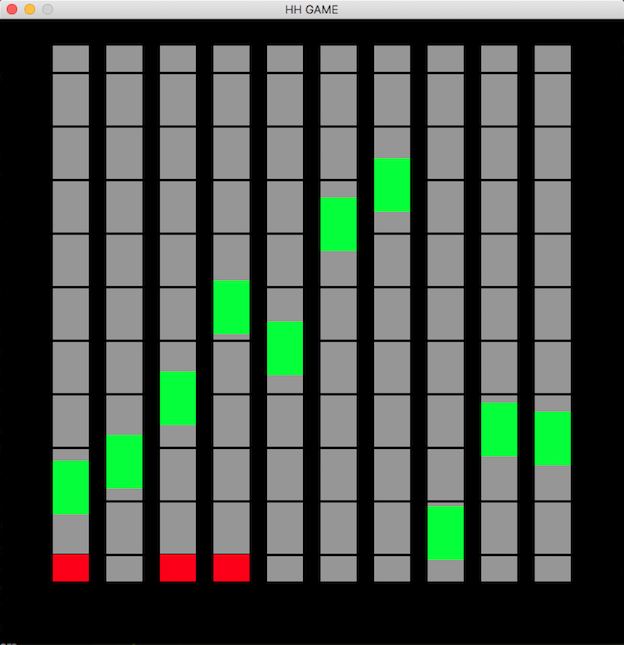
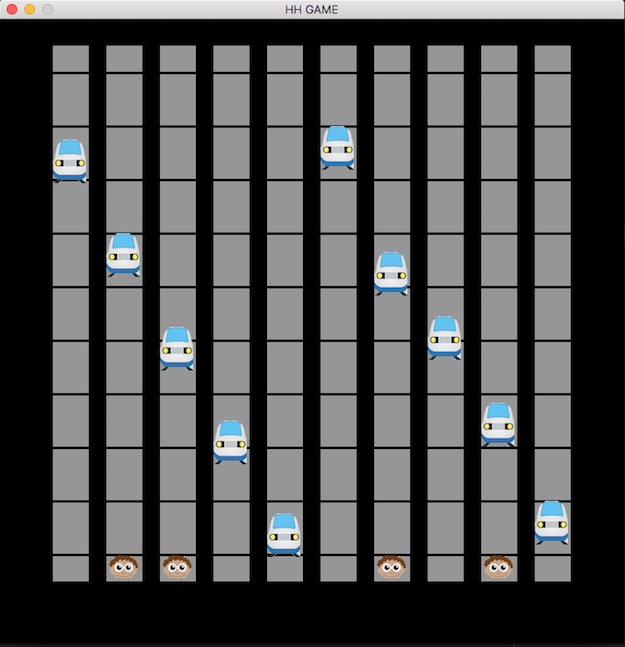
Add images to trains and hobos

diff --git a/Game.py b/Game.py
@@ -2,6 +2,7 @@ import pygame
 import Tracks
 import Train
 import Hobo
+import Player
 from Coord import *
 import random
 
@@ -15,8 +16,11 @@ class HH_Game():
         self.screen = pygame.display.set_mode(
             (self.screenWidth, self.screenHeight))
         self.tracks = Tracks.Tracks(60, 30, 40, 600, 10, self.screen)
+        # self.player = Player.Player(
+        #    300, self.tracks, 3, 240, 600, 40, 30, self.screen)
         self.tracks.setBusy(0)
         self.tracks.setBusy(1)
+        # self.tracks.setBusy(3)
         self.tracks.setBusy(4)
         self.tracks.setBusy(6)
         self.fps = 30
@@ -32,13 +36,13 @@ class HH_Game():
     def addTrains(self):
         for track in range(1, self.tracks.numberOfTracks+1):
             self.trains.append(Train.Train(
-                track-1, track*self.tracks.x, self.tracks.y, 40, 60, self.speed*track/3, self.screen, self.fps))
+                track-1, track*self.tracks.x, self.tracks.y, self.speed*track/3, self.screen, self.fps))
 
     def addHobos(self):
         for track in range(1, self.tracks.numberOfTracks+1):
             if not (self.tracks.isEmpty(track-1)):
                 self.hobos.append(Hobo.Hobo(
-                    self.tracks, track-1, track*self.tracks.x, self.tracks.height, self.tracks.width, self.tracks.y, self.screen))
+                    self.tracks, track-1, track*self.tracks.x, self.tracks.height, self.screen))
 
     def removeHobos(self):
         for hobo in self.hobos:
@@ -49,11 +53,15 @@ class HH_Game():
         for hobo in self.hobos:
             if hobo.currentTrack == track:
                 return hobo
+            # elif self.player.currentTrack == track:
+            #    return self.player
 
     def getCurrentTracks(self):
         currentTracks = []
         for hobo in self.hobos:
             currentTracks.append(hobo.currentTrack)
+        # if (self.player != None):
+        #    currentTracks.append(self.player.currentTrack)
         return currentTracks
 
     def handleCollision(self):
@@ -68,6 +76,7 @@ class HH_Game():
             train.update()
         for hobo in self.hobos:
             hobo.update()
+        # self.player.update()
 
     # Draw the scene for the game
 
@@ -77,8 +86,10 @@ class HH_Game():
             hobo.draw()
         for train in self.trains:
             train.draw()
+        # if (self.player.health > 0):
+        #    self.player.draw()
 
-            # Start game
+        # Start game
     def start(self):
         # start timer
         clock = self.clock

diff --git a/Train.py b/Train.py
@@ -6,10 +6,10 @@ from Coord import *
 
 class Train(Coord):
     # parameters: time it takes for train to pass, and the track its on
-    def __init__(self, currentTrack, x, y, width, height, speed, screen, fps):
+    def __init__(self, currentTrack, x, y, speed, screen, fps):
         #self.passTime = passTime
         #self.trackNum = trackNum
-        super().__init__(x, y, width, height)
+        super().__init__(x, y, 0, 0)
         self.currentTrack = currentTrack
         self.fps = fps
         self.speed = speed
@@ -17,8 +17,10 @@ class Train(Coord):
         self.color = (0, 255, 0)
 
     def draw(self):
-        pygame.draw.rect(self.screen, self.color,
-                         (self.x, self.y, self.width, self.height))
+        # pygame.draw.rect(self.screen, self.color,
+        #                 (self.x, self.y, self.width, self.height))
+        train = pygame.image.load("train.png")
+        self.screen.blit(train, (self.x, self.y))
 
     def update(self):
         self.y += self.speed/self.fps

diff --git a/Hobo.py b/Hobo.py
@@ -6,8 +6,8 @@ from Coord import *
 
 class Hobo(Coord):
     # Initializes a Hobo with a certain health
-    def __init__(self, tracks, currentTrack, x, y, width, height, screen):
-        super().__init__(x, y, width, height)
+    def __init__(self, tracks, currentTrack, x, y, screen):
+        super().__init__(x, y, 0, 0)
         self.tracks = tracks
         self.currentTrack = currentTrack
         self.screen = screen
@@ -17,8 +17,9 @@ class Hobo(Coord):
     def update(self):
         if (self.currentTrack < self.tracks.numberOfTracks):
             self.tracks.setEmpty(self.currentTrack)
+        if (self.random != self.currentTrack):
             self.tracks.setBusy(self.random)
 
     def draw(self):
-        pygame.draw.rect(self.screen, (255, 0, 0),
-                         (self.x, self.y, self.width, self.height))
+        hobo = pygame.image.load("hobo.png")
+        self.screen.blit(hobo, (self.x, self.y))

diff --git a/Player.py b/Player.py
@@ -1,7 +1,19 @@
-'''Machine learn / Deep learn'''
+import pygame
+from Hobo import *
 
 
-class Player:
+class Player(Hobo):
 
-    def __init__(health):
+    def __init__(self, health, tracks, currentTrack, x, y, screen):
+        super().__init__(tracks, currentTrack, x, y, 0, 0, screen)
         self.health = health
+
+    def update(self):
+        if (self.currentTrack < self.tracks.numberOfTracks):
+            self.tracks.setEmpty(self.currentTrack)
+            self.tracks.setBusy(self.random)
+            self.health -= 1
+
+    # def draw(self):
+        # pygame.draw.rect(self.screen, (0, 0, 255),
+        #                 (self.x, self.y, self.width, self.height))

diff --git a/Coord.py b/Coord.py
@@ -13,7 +13,7 @@ class Coord:
         left = self.x
         right = self.x + self.width
         top = self.y
-        bottom = self.y + self.height
+        bottom = self.y + 50
 
         otherLeft = other.x
         otherRight = other.x + other.width
